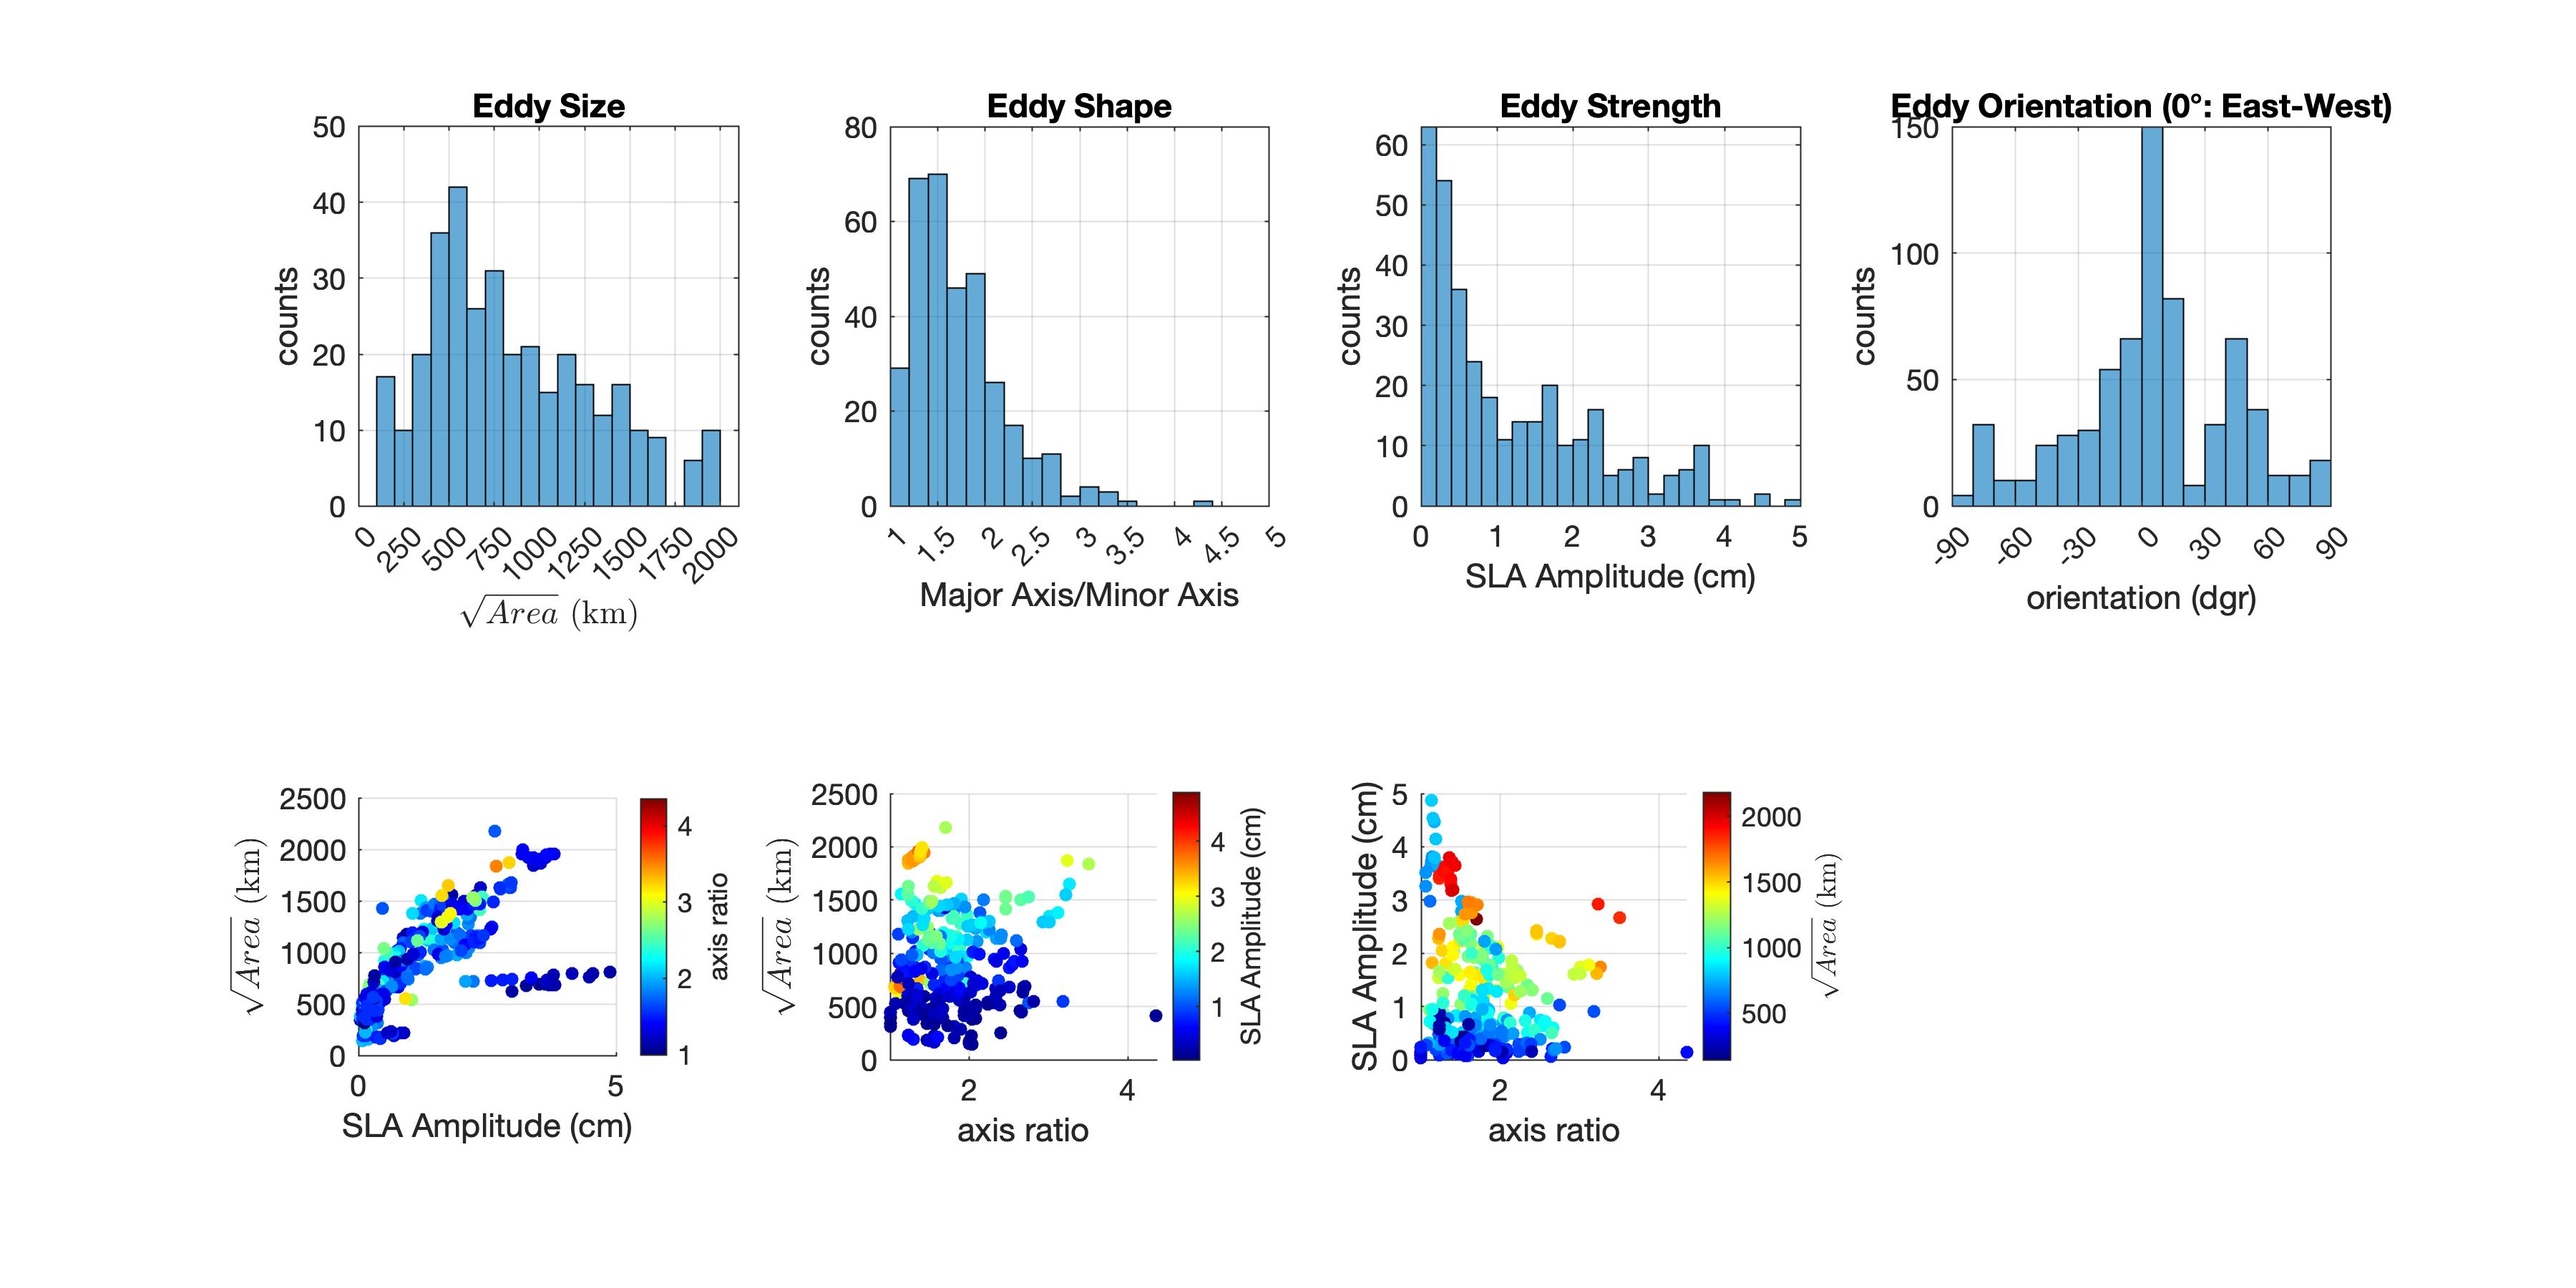
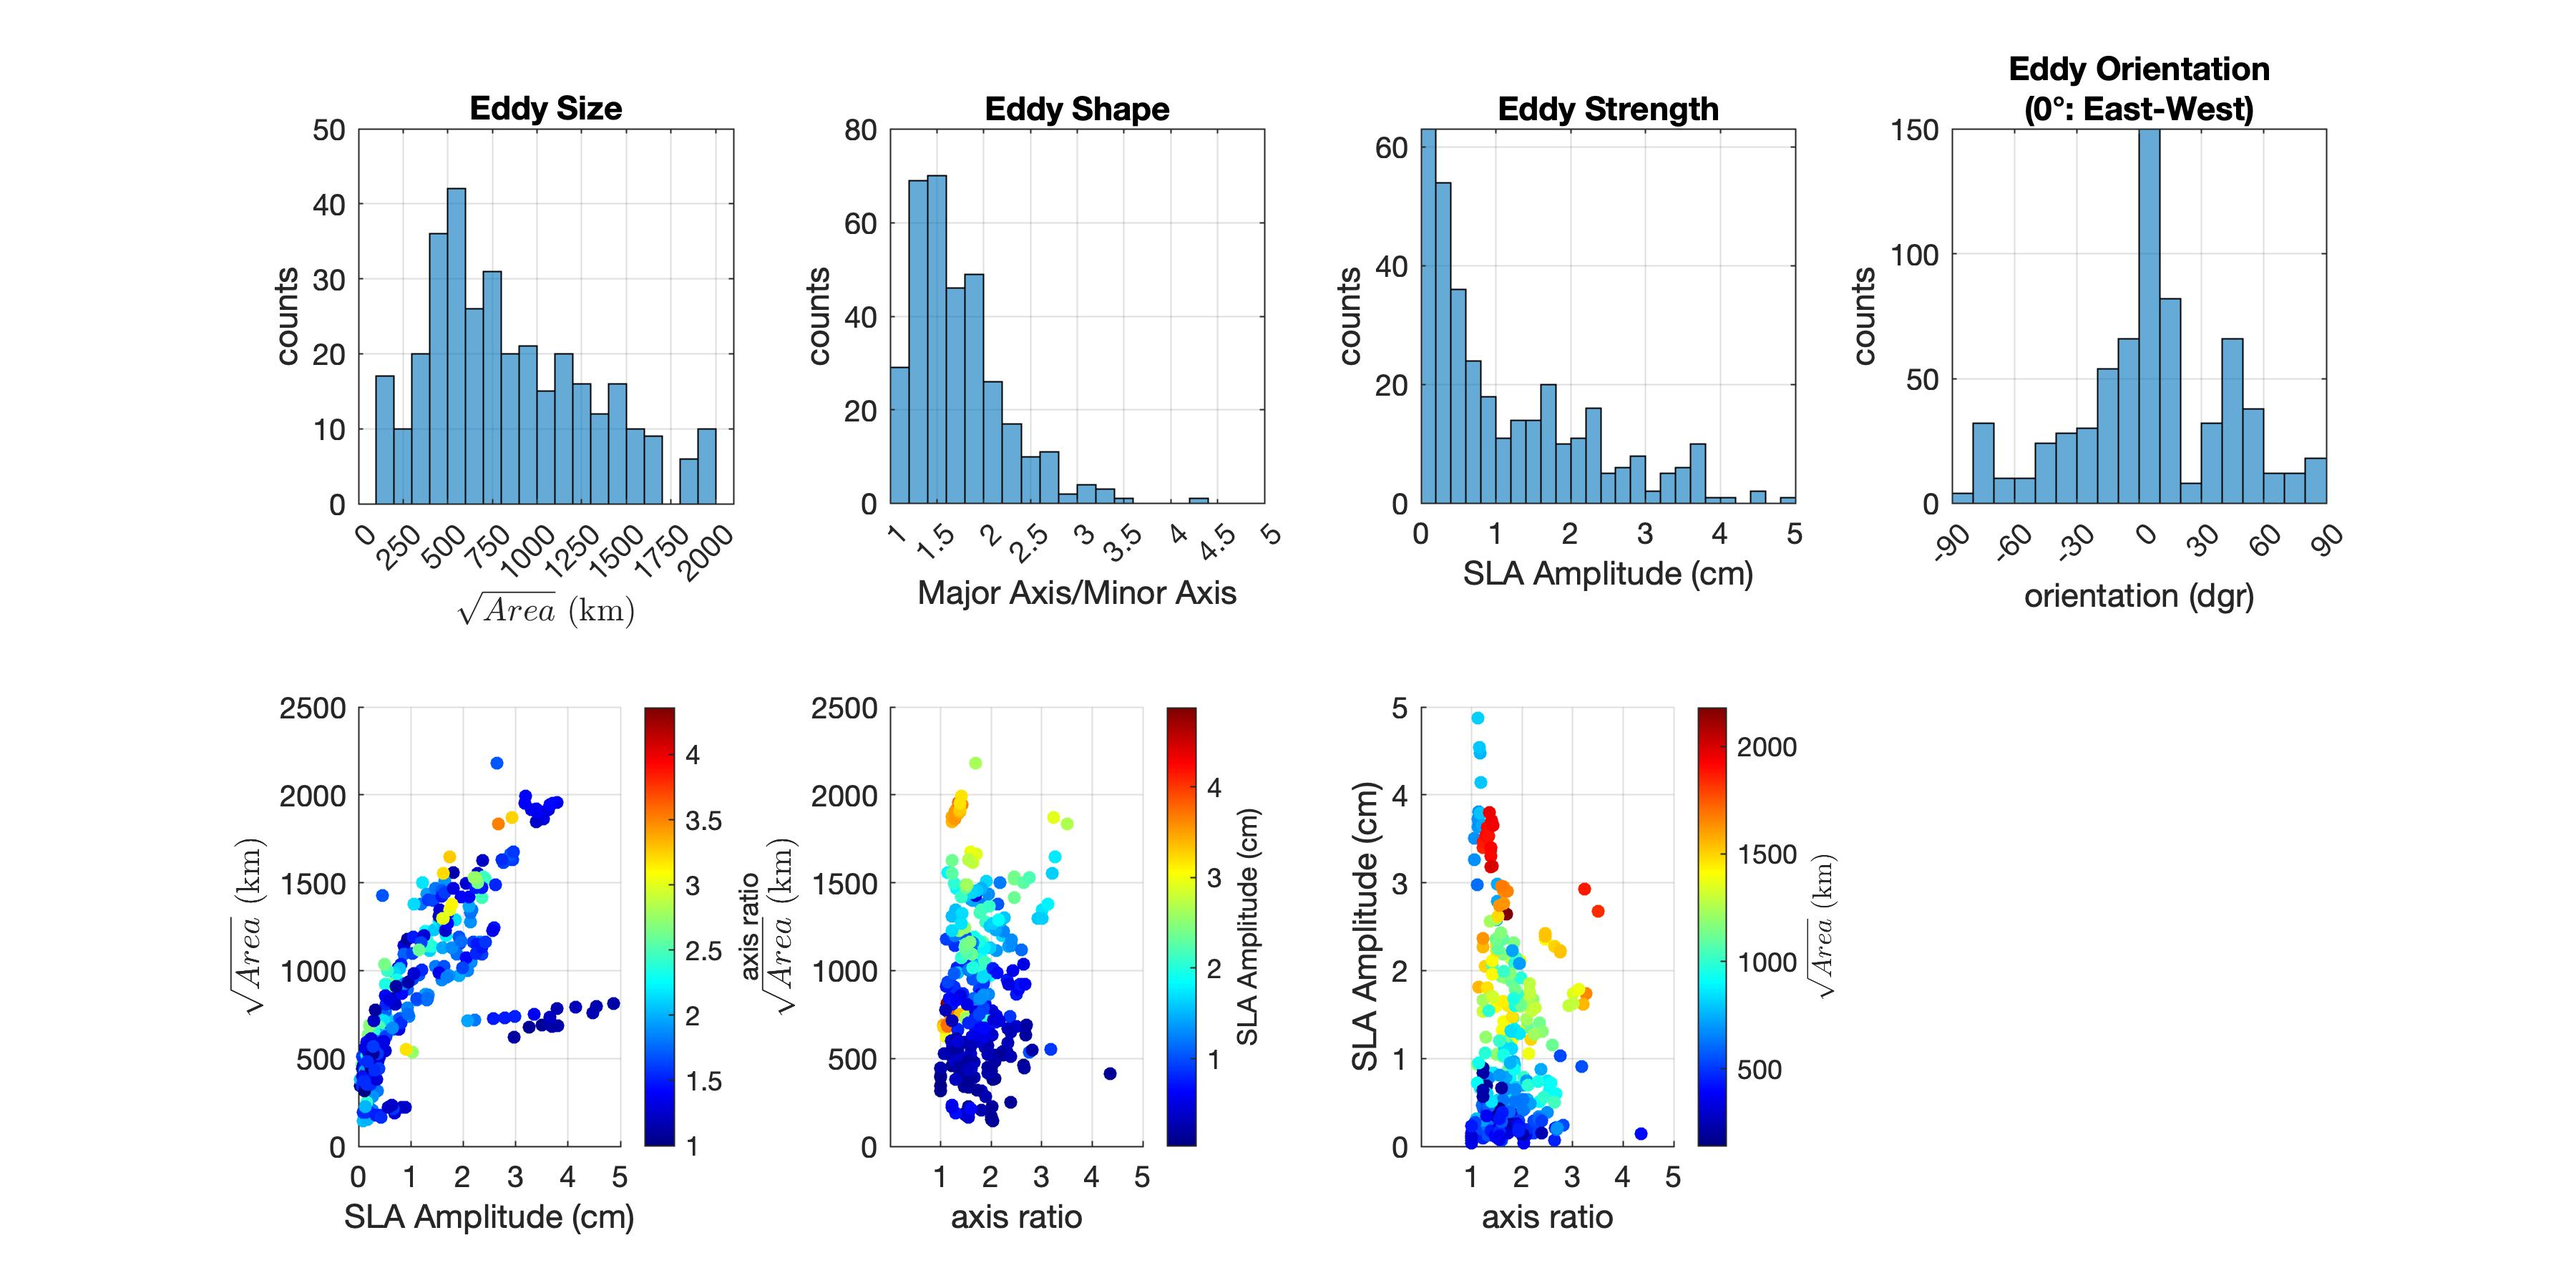
updated figures

diff --git a/my_matlab/learning_to_use_the_package.m b/my_matlab/learning_to_use_the_package.m
@@ -107,7 +107,7 @@ for k = 1:nreg
     axis_ratio = MajorAxisLen./MinorAxisLen;
     
     ncol=4;
-    figure
+    figure(1); clf;
     subplot(2,ncol,1+ncol)
     %plot([eddies_atomic.Stats.MajorAxisLength]./[eddies_atomic.Stats.MinorAxisLength],'*b');
     % eddies_stat = [eddies.Stats];
@@ -122,8 +122,8 @@ for k = 1:nreg
     % plot([0:20],[0:20],'--k');
     grid on
     %ylim([0 5])
-    %set(gca,'ytick',[0:1:5])
-    axis('square')
+    set(gca,'xtick',[0:1:5])
+    %axis('square')
     xlabel('SLA Amplitude (cm)')
     ylabel('$\sqrt{Area}$ (km)','interpreter','latex')
     ylim([0 2500]);
@@ -139,13 +139,14 @@ for k = 1:nreg
     % plot([0:20],[0:20],'--k');
     grid on
     % ylim([0 5])
-    % set(gca,'ytick',[0:1:5])
-    axis('square')
+     set(gca,'xtick',[1:1:5])
+    %axis('square')
     xlabel('axis ratio')
     ylabel('$\sqrt{Area}$ (km)','interpreter','latex')
     hb=colorbar;
     set(get(hb,'xlabel'),'String', 'SLA Amplitude (cm)');
     ylim([0 2500]);
+    xlim([0 5])
     
     subplot(2,ncol,3+ncol)
     scatter(axis_ratio, SSH_Amplitude,  20, sqrt(SurfArea),'filled');
@@ -155,11 +156,12 @@ for k = 1:nreg
     % hold on
     % plot([0:20],[0:20],'--k');
     grid on
-    axis('square')
+    %axis('square')
     xlabel('axis ratio')
     ylabel('SLA Amplitude (cm)')
     ylim([0 5])
-    set(gca,'ytick',[0:1:5])
+    xlim([0 5])
+    set(gca,'ytick',[0:1:5],'xtick',[1:5])
     hb=colorbar;
     set(get(hb,'xlabel'),'String', '$\sqrt{Area}$ (km)','interpreter','latex');
     
@@ -206,7 +208,7 @@ for k = 1:nreg
     xlim([-90 90]);
     xlabel('orientation (dgr)')
     ylabel('counts')
-    title('Eddy Orientation (0°: East-West)');
+    title({'Eddy Orientation'; '(0°: East-West)'});
     set(gca,'xtick',[-90:30:90]);
     grid on
     
